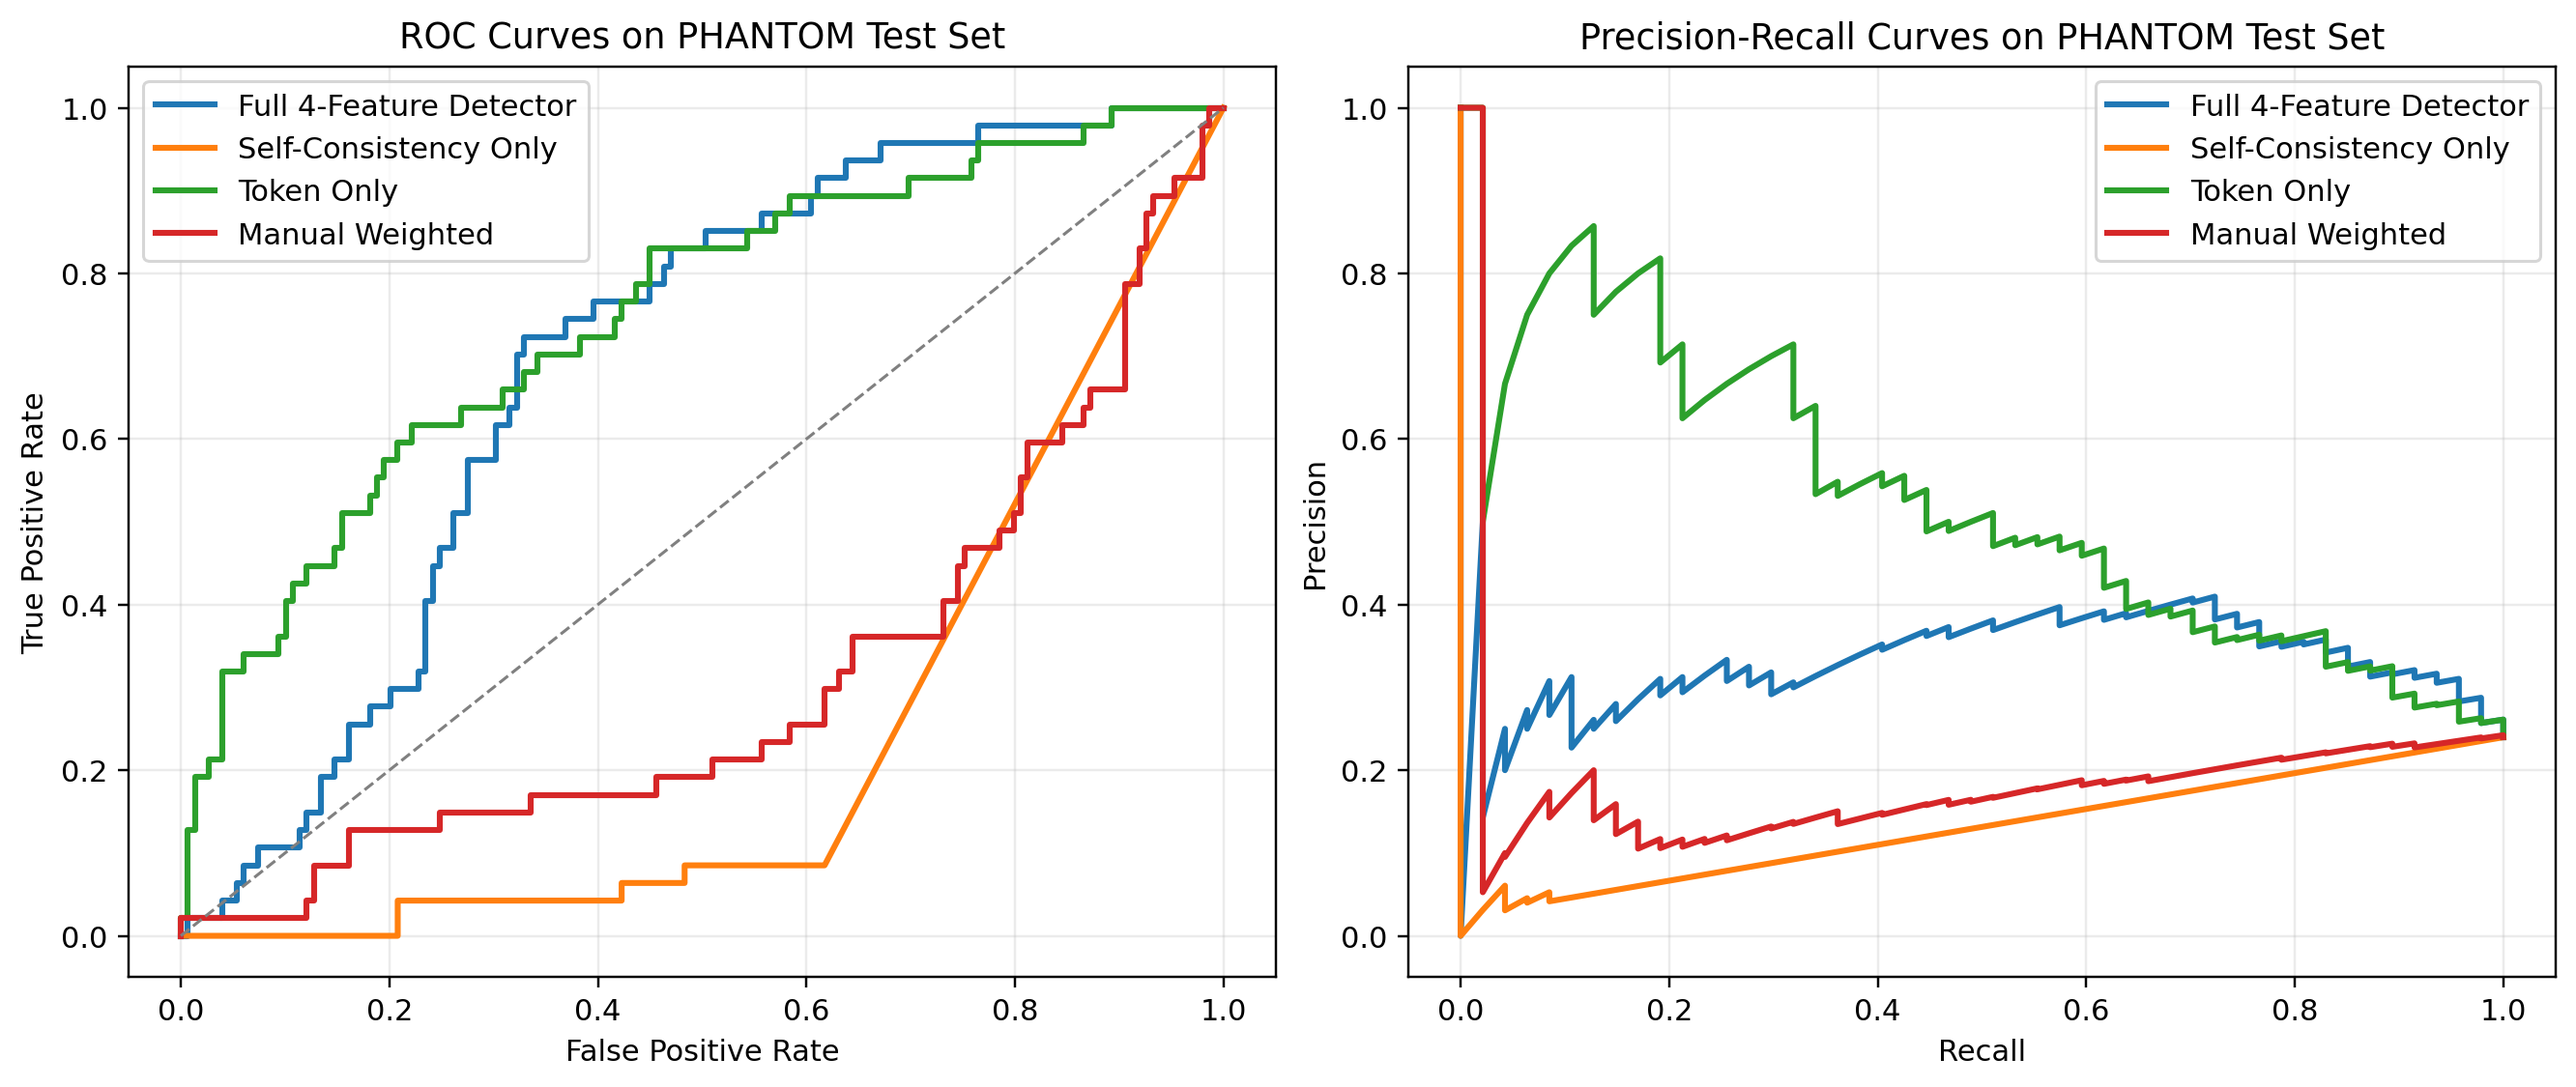
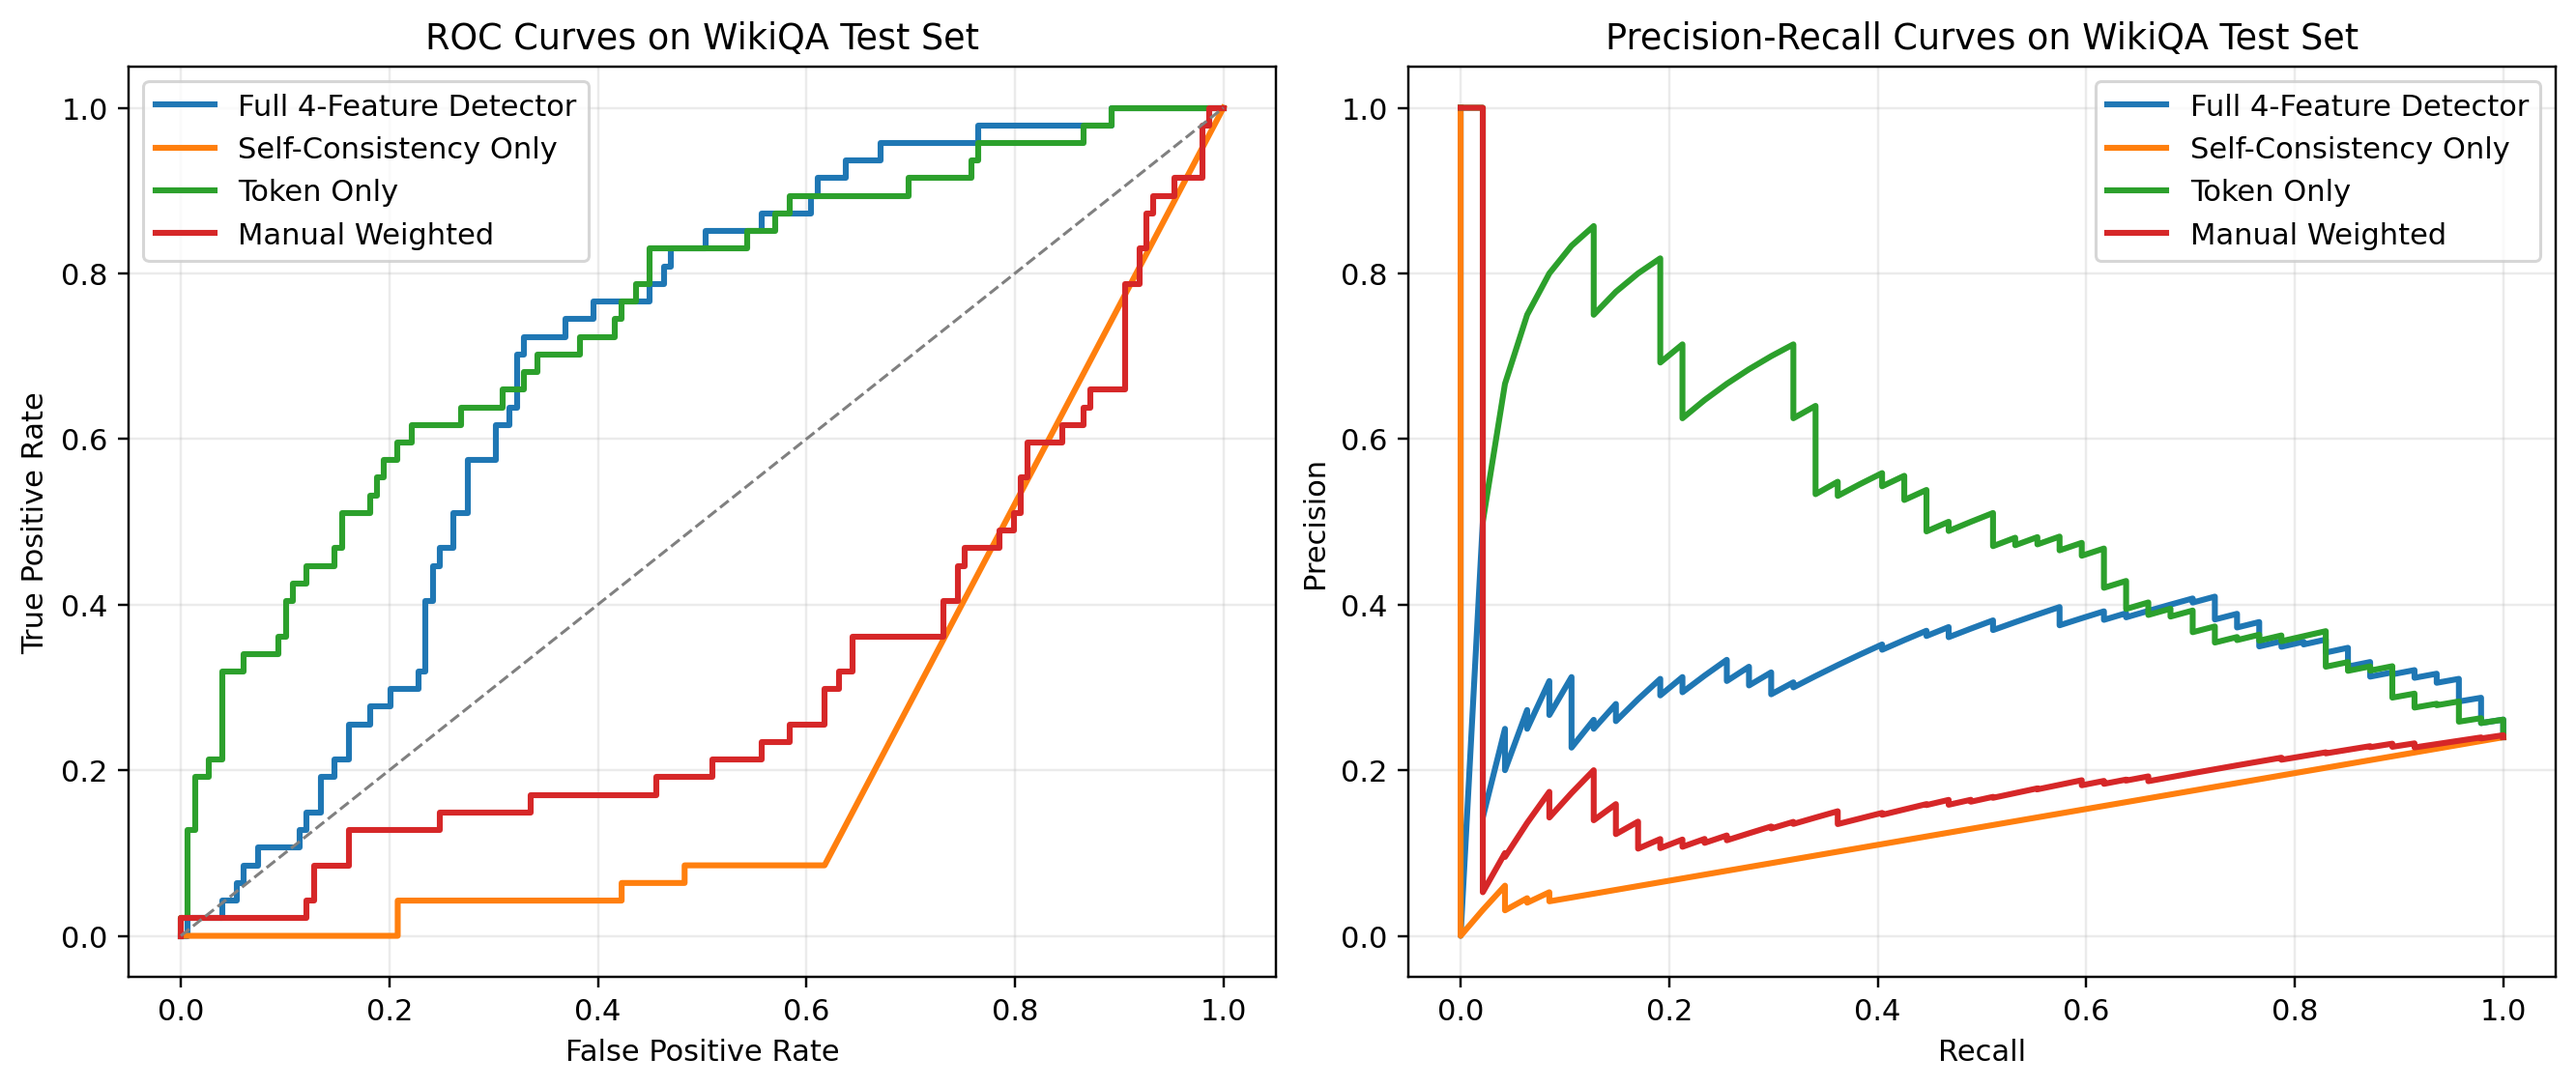
fixing plot labels for wikiqa

Changed region(s): [[0.6229, 0.0, 0.9343, 0.0622], [0.1557, 0.0, 0.4049, 0.0622]]

diff --git a/code/detector/generate_report_plots.py b/code/detector/generate_report_plots.py
@@ -78,6 +78,16 @@ BASELINE_COLORS = {
 }
 
 
+def _dataset_display_name(prefix: str) -> str:
+    """Map an output prefix to a clean dataset name for plot titles."""
+    lowered = prefix.lower()
+    if "wikiqa" in lowered:
+        return "WikiQA"
+    if "phantom" in lowered:
+        return "PHANTOM"
+    return prefix
+
+
 def _load_json(path: Path) -> Dict:
     """Load a saved JSON report."""
     with path.open("r", encoding="utf-8") as handle:
@@ -137,7 +147,7 @@ def _extract_best_trials(baseline_report: Dict) -> Dict[str, Dict]:
     return best_trials
 
 
-def _plot_baseline_metric_bars(baseline_report: Dict, output_path: Path) -> None:
+def _plot_baseline_metric_bars(baseline_report: Dict, output_path: Path, dataset_name: str) -> None:
     """Draw a compact baseline comparison for the most poster-friendly metrics."""
     best_trials = _extract_best_trials(baseline_report)
     metrics = ["auroc", "auprc", "f1", "accuracy"]
@@ -158,13 +168,13 @@ def _plot_baseline_metric_bars(baseline_report: Dict, output_path: Path) -> None
         ax.set_title(METRIC_LABELS[metric_name])
         ax.grid(axis="y", alpha=0.25)
 
-    fig.suptitle("PHANTOM Test Performance Across Detector Baselines")
+    fig.suptitle(f"{dataset_name} Test Performance Across Detector Baselines")
     output_path.parent.mkdir(parents=True, exist_ok=True)
     fig.savefig(output_path, dpi=220, bbox_inches="tight")
     plt.close(fig)
 
 
-def _plot_baseline_metric_heatmap(baseline_report: Dict, output_path: Path) -> None:
+def _plot_baseline_metric_heatmap(baseline_report: Dict, output_path: Path, dataset_name: str) -> None:
     """Draw a denser report-style comparison across all key metrics."""
     best_trials = _extract_best_trials(baseline_report)
     ordered_names = [name for name in BASELINE_PLOT_ORDER if name in best_trials]
@@ -182,7 +192,7 @@ def _plot_baseline_metric_heatmap(baseline_report: Dict, output_path: Path) -> N
     ax.set_xticklabels([METRIC_LABELS[m] for m in metrics], rotation=30, ha="right")
     ax.set_yticks(np.arange(len(ordered_names)))
     ax.set_yticklabels([BASELINE_DISPLAY_NAMES[name] for name in ordered_names])
-    ax.set_title("Baseline Comparison Heatmap on PHANTOM Test Set")
+    ax.set_title(f"Baseline Comparison Heatmap on {dataset_name} Test Set")
 
     for i in range(matrix.shape[0]):
         for j in range(matrix.shape[1]):
@@ -273,6 +283,7 @@ def _plot_roc_pr_curves(
     tuned_report: Dict,
     test_rows: Sequence[Dict[str, str]],
     output_path: Path,
+    dataset_name: str,
 ) -> None:
     """Compare ranking behavior for the strongest baselines on the test set."""
     best_trials = _extract_best_trials(baseline_report)
@@ -319,7 +330,7 @@ def _plot_roc_pr_curves(
         fpr, tpr, _ = roc_curve(y_test, scores)
         roc_ax.plot(fpr, tpr, linewidth=2, label=name)
     roc_ax.plot([0, 1], [0, 1], linestyle="--", color="gray", linewidth=1)
-    roc_ax.set_title("ROC Curves on PHANTOM Test Set")
+    roc_ax.set_title(f"ROC Curves on {dataset_name} Test Set")
     roc_ax.set_xlabel("False Positive Rate")
     roc_ax.set_ylabel("True Positive Rate")
     roc_ax.grid(alpha=0.25)
@@ -329,7 +340,7 @@ def _plot_roc_pr_curves(
     for name, scores in curve_specs:
         precision, recall, _ = precision_recall_curve(y_test, scores)
         pr_ax.plot(recall, precision, linewidth=2, label=name)
-    pr_ax.set_title("Precision-Recall Curves on PHANTOM Test Set")
+    pr_ax.set_title(f"Precision-Recall Curves on {dataset_name} Test Set")
     pr_ax.set_xlabel("Recall")
     pr_ax.set_ylabel("Precision")
     pr_ax.grid(alpha=0.25)
@@ -393,14 +404,17 @@ def main() -> None:
 
     output_dir = Path(args.output_dir)
     output_dir.mkdir(parents=True, exist_ok=True)
+    dataset_name = _dataset_display_name(args.prefix)
 
     _plot_baseline_metric_bars(
         baseline_report,
         output_dir / f"{args.prefix}_baseline_metric_bars.png",
+        dataset_name,
     )
     _plot_baseline_metric_heatmap(
         baseline_report,
         output_dir / f"{args.prefix}_baseline_metric_heatmap.png",
+        dataset_name,
     )
     _plot_tuned_coefficients(
         tuned_report,
@@ -411,6 +425,7 @@ def main() -> None:
         tuned_report,
         test_rows,
         output_dir / f"{args.prefix}_roc_pr_curves.png",
+        dataset_name,
     )
     _plot_feature_distributions(
         combined_rows,
